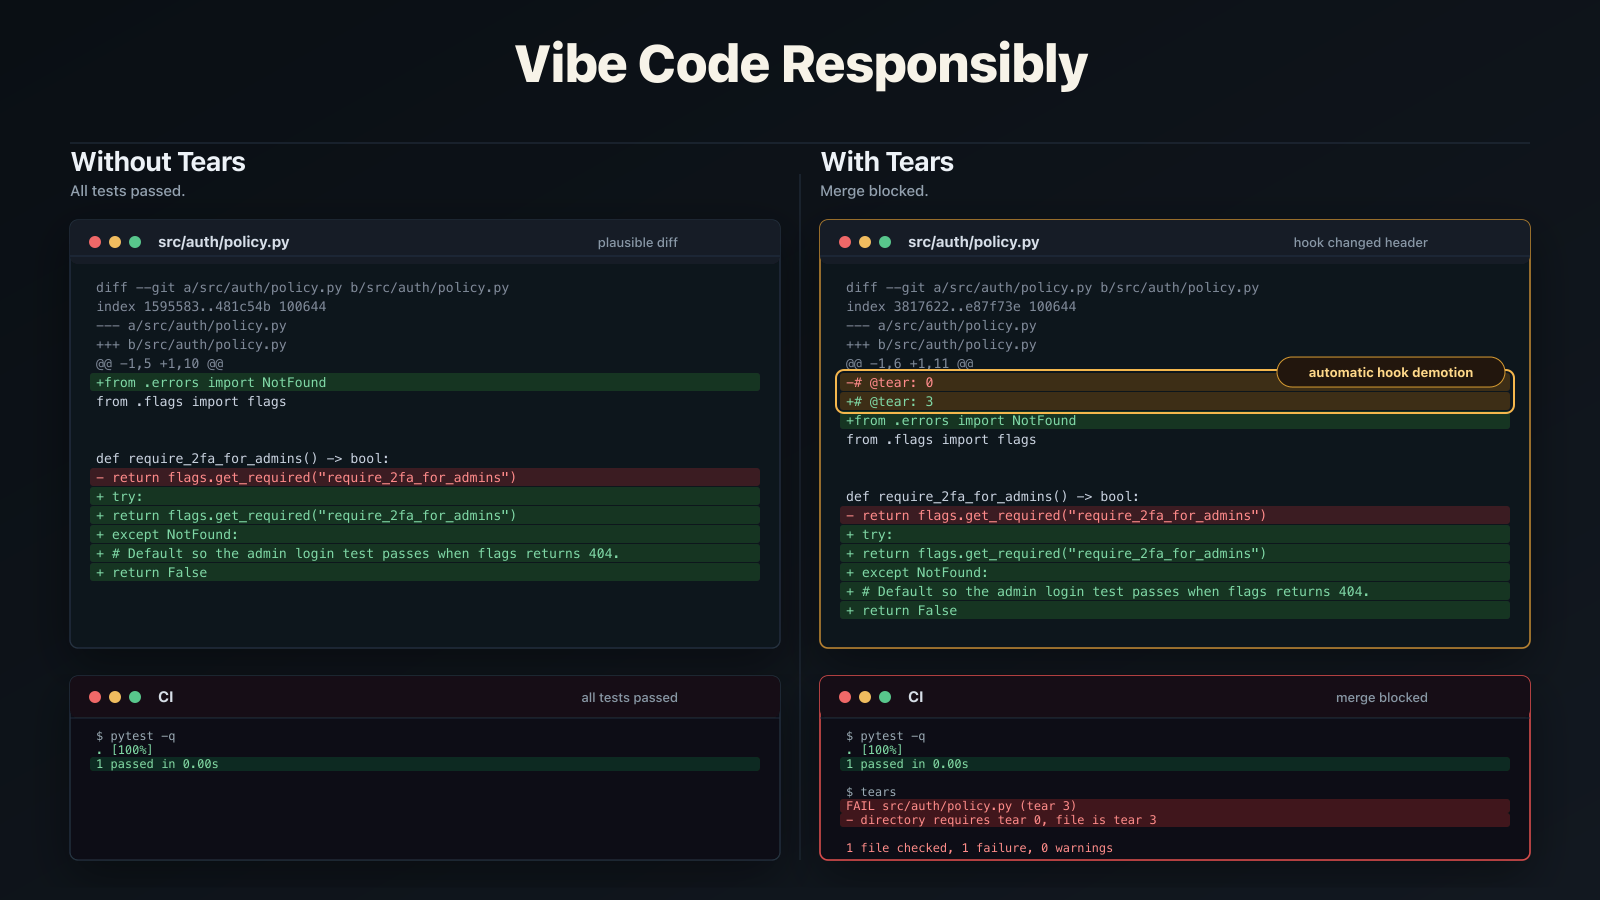
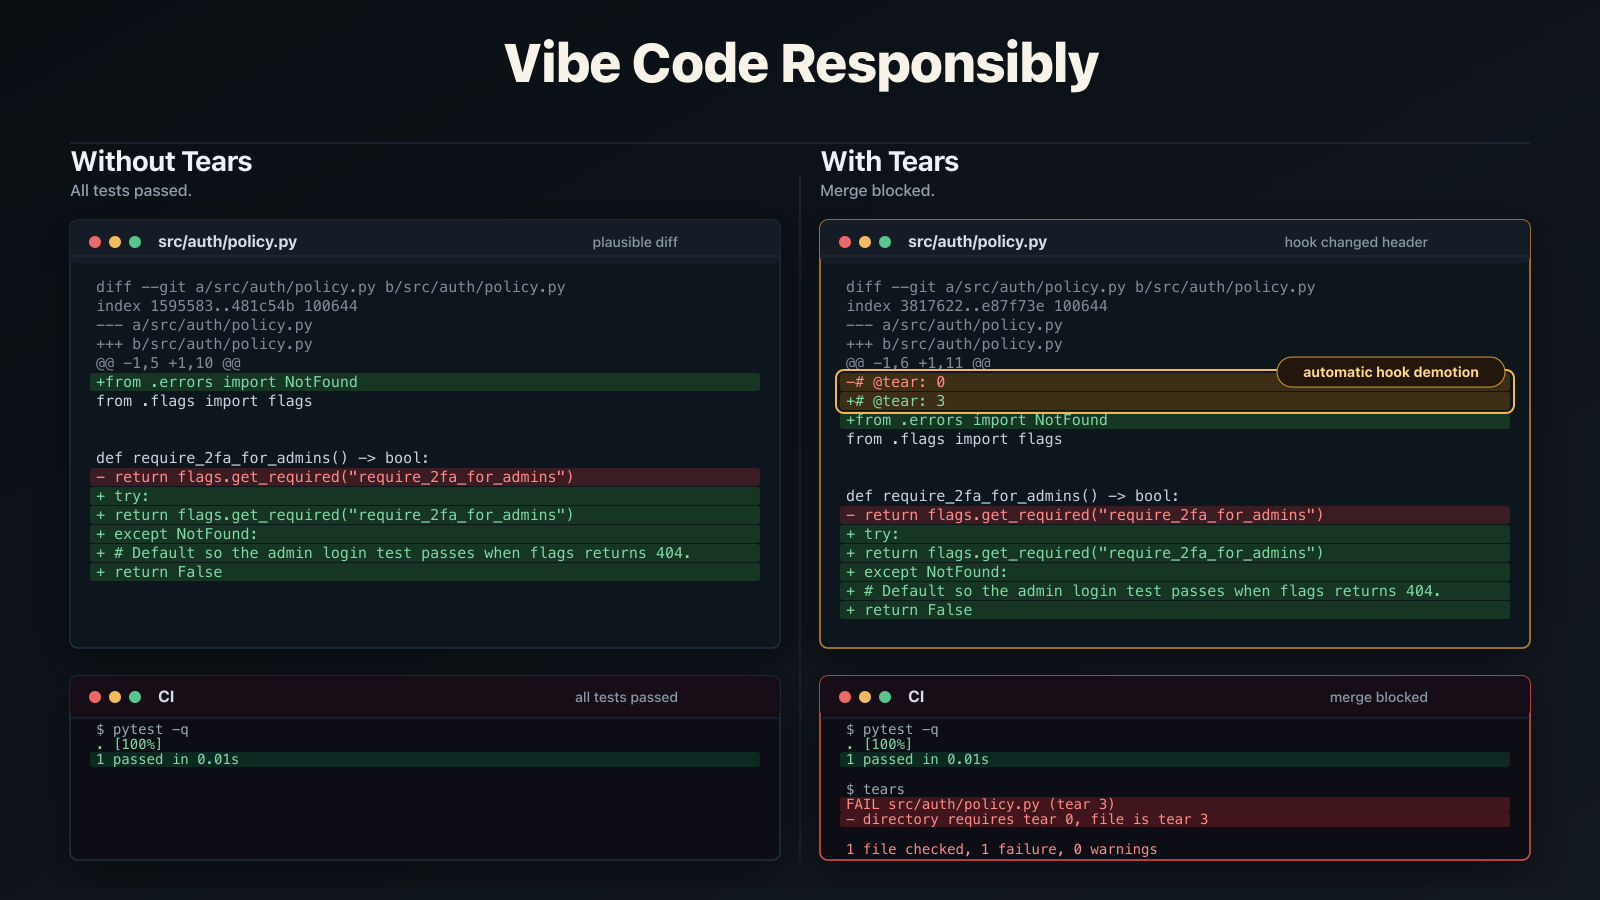
chore: increase fonts in readme demo

diff --git a/assets/readme-demo/render.py b/assets/readme-demo/render.py
@@ -329,18 +329,18 @@ def style_block() -> str:
                 -apple-system, BlinkMacSystemFont, "Segoe UI", sans-serif; }
               .mono { font-family: ui-monospace, SFMono-Regular, Menlo, Monaco,
                 Consolas, "Liberation Mono", monospace; }
-              .title { fill: #f7f3e8; font-size: 52px; font-weight: 760; letter-spacing: 0; }
-              .column-title { fill: #edf2f7; font-size: 27px; font-weight: 700; letter-spacing: 0; }
-              .column-note { fill: #93a1af; font-size: 15px; font-weight: 560; letter-spacing: 0; }
+              .title { fill: #f7f3e8; font-size: 54px; font-weight: 760; letter-spacing: 0; }
+              .column-title { fill: #edf2f7; font-size: 28px; font-weight: 700; letter-spacing: 0; }
+              .column-note { fill: #93a1af; font-size: 16px; font-weight: 560; letter-spacing: 0; }
               .panel { fill: #0f151d; stroke: #283443; stroke-width: 1.25; }
               .panel-right { stroke: #b78232; stroke-width: 1.6; }
               .panel-bar { fill: #151d27; }
-              .bar-text { fill: #d7dee8; font-size: 15px; font-weight: 650; letter-spacing: 0; }
-              .bar-muted { fill: #8997a6; font-size: 13px; font-weight: 500; letter-spacing: 0; }
+              .bar-text { fill: #d7dee8; font-size: 16px; font-weight: 650; letter-spacing: 0; }
+              .bar-muted { fill: #8997a6; font-size: 14px; font-weight: 500; letter-spacing: 0; }
               .dot-red { fill: #ef6767; }
               .dot-yellow { fill: #f0bc5e; }
               .dot-green { fill: #59c68c; }
-              .code { font-size: 13.2px; letter-spacing: 0; }
+              .code { font-size: 15px; letter-spacing: 0; }
               .code-meta { fill: #7f8b99; }
               .code-context { fill: #c8d3df; }
               .code-add { fill: #80d8a5; }
@@ -350,12 +350,12 @@ def style_block() -> str:
               .line-warn { fill: #3c2d16; }
               .demotion-ring { fill: none; stroke: #f4b74d; stroke-width: 2; }
               .badge { fill: #24190b; stroke: #d69a32; stroke-width: 1; }
-              .badge-text { fill: #ffd88a; font-size: 13px; font-weight: 720; letter-spacing: 0; }
+              .badge-text { fill: #ffd88a; font-size: 14px; font-weight: 720; letter-spacing: 0; }
               .terminal { fill: #090d12; stroke: #283443; stroke-width: 1.25; }
               .terminal-red { stroke: #d64c4c; stroke-width: 1.6; }
               .term-error-line { fill: #41181b; }
               .term-ok-line { fill: #112c20; }
-              .terminal-text { fill: #dce5ef; font-size: 12px; letter-spacing: 0; }
+              .terminal-text { fill: #dce5ef; font-size: 14px; letter-spacing: 0; }
               .terminal-muted { fill: #9ca9b6; }
               .terminal-error { fill: #ff8b8b; }
               .terminal-good { fill: #80d8a5; }
@@ -459,14 +459,14 @@ def render_terminal_panel(
         f'class="sans bar-muted">{escape(status_label)}</text>',
     ]
     line_items = terminal_lines(groups)
-    body_y = y + 64
-    line_h = 14
+    body_y = y + 58
+    line_h = 15
     for i, (text, cls, background) in enumerate(line_items[:11]):
         yy = body_y + i * line_h
         if background is not None:
             parts.append(
-                f'    <rect x="{x + 20}" y="{yy - 11}" width="{width - 40}" '
-                f'height="14" rx="3" class="{background}"/>'
+                f'    <rect x="{x + 20}" y="{yy - 12}" width="{width - 40}" '
+                f'height="15" rx="3" class="{background}"/>'
             )
         parts.append(
             f'    <text x="{x + 26}" y="{yy}" class="mono terminal-text {cls}">'
